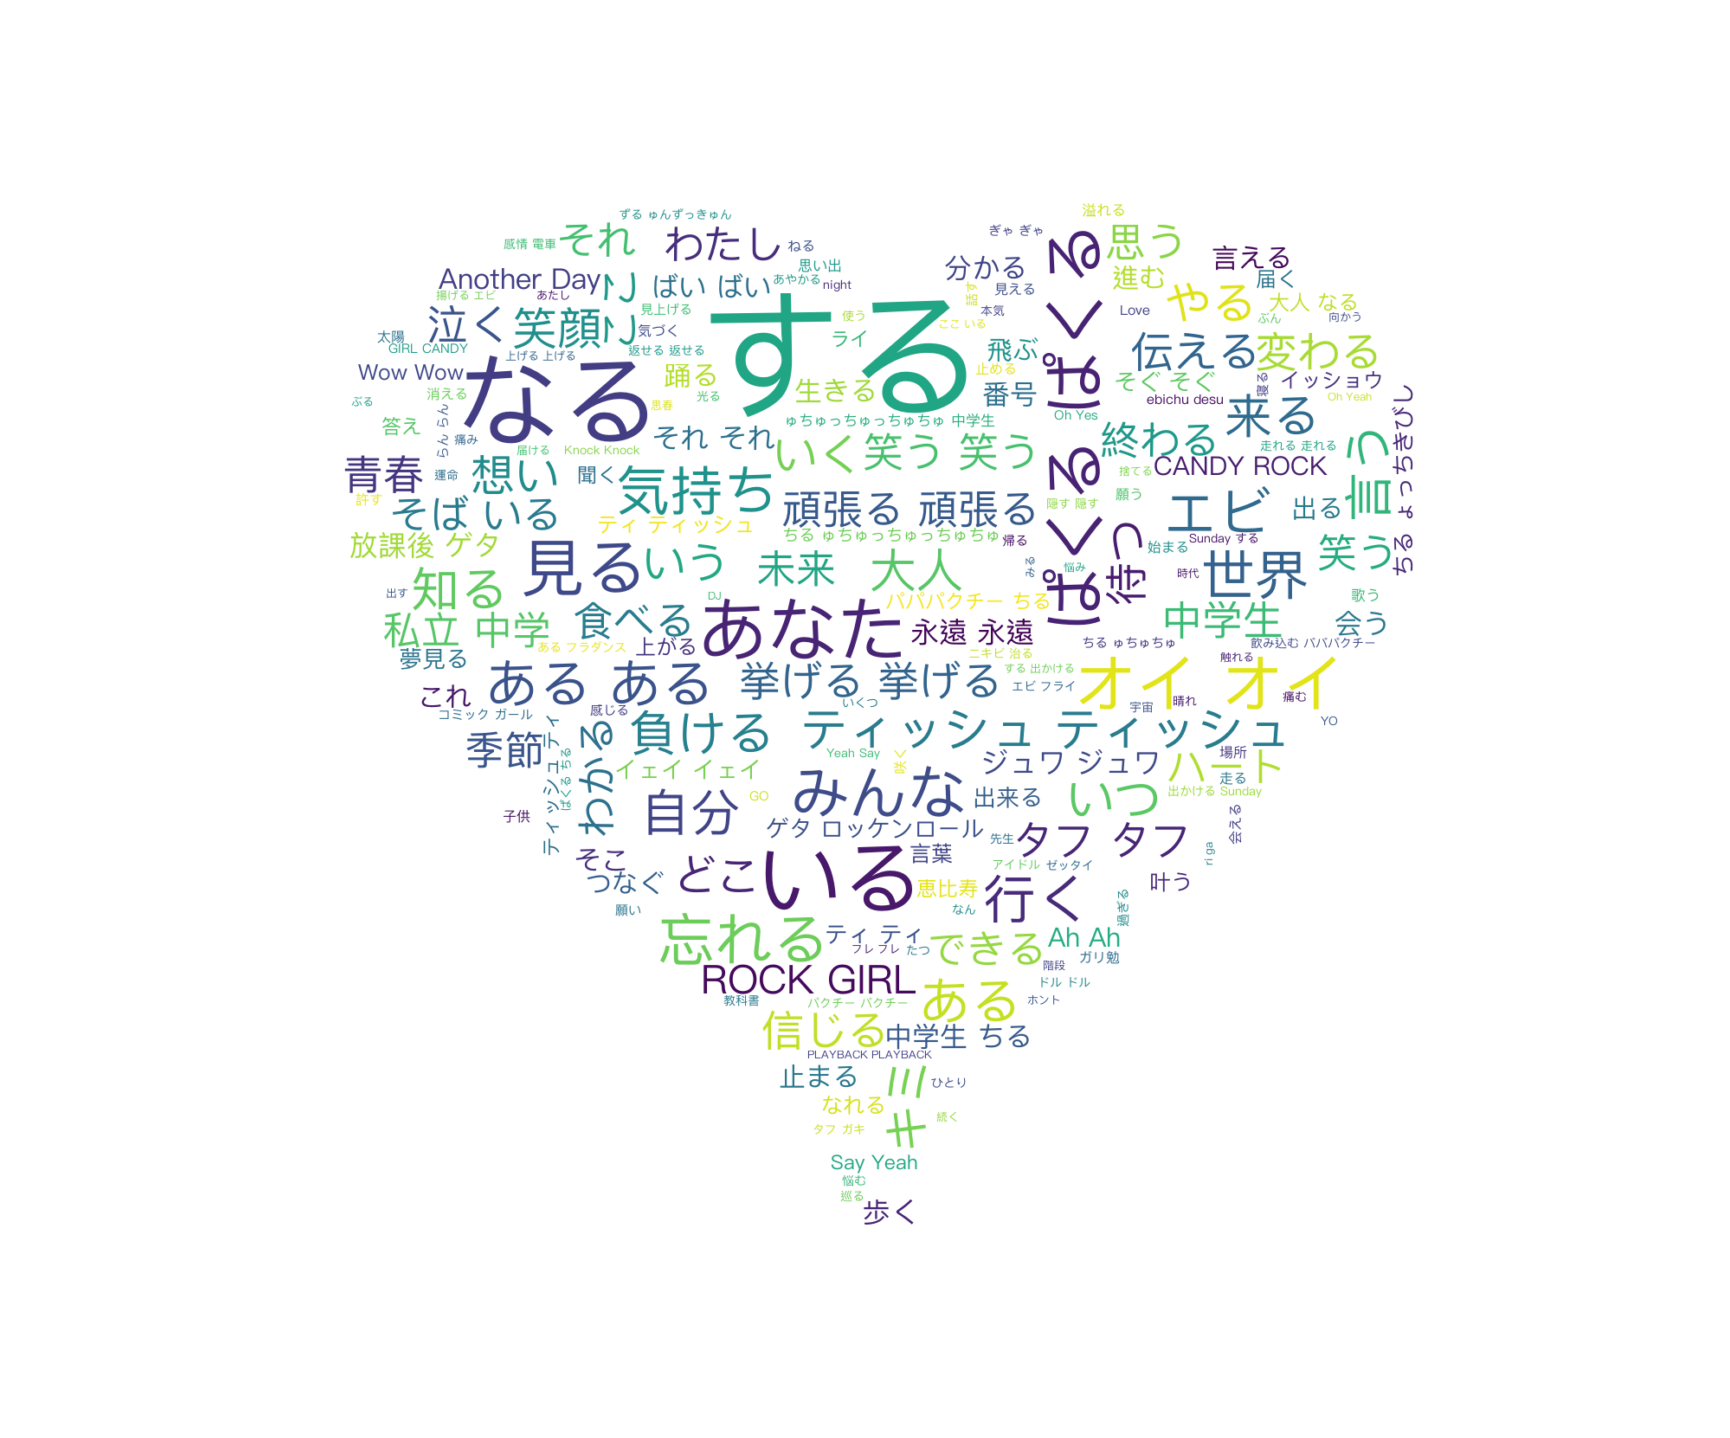
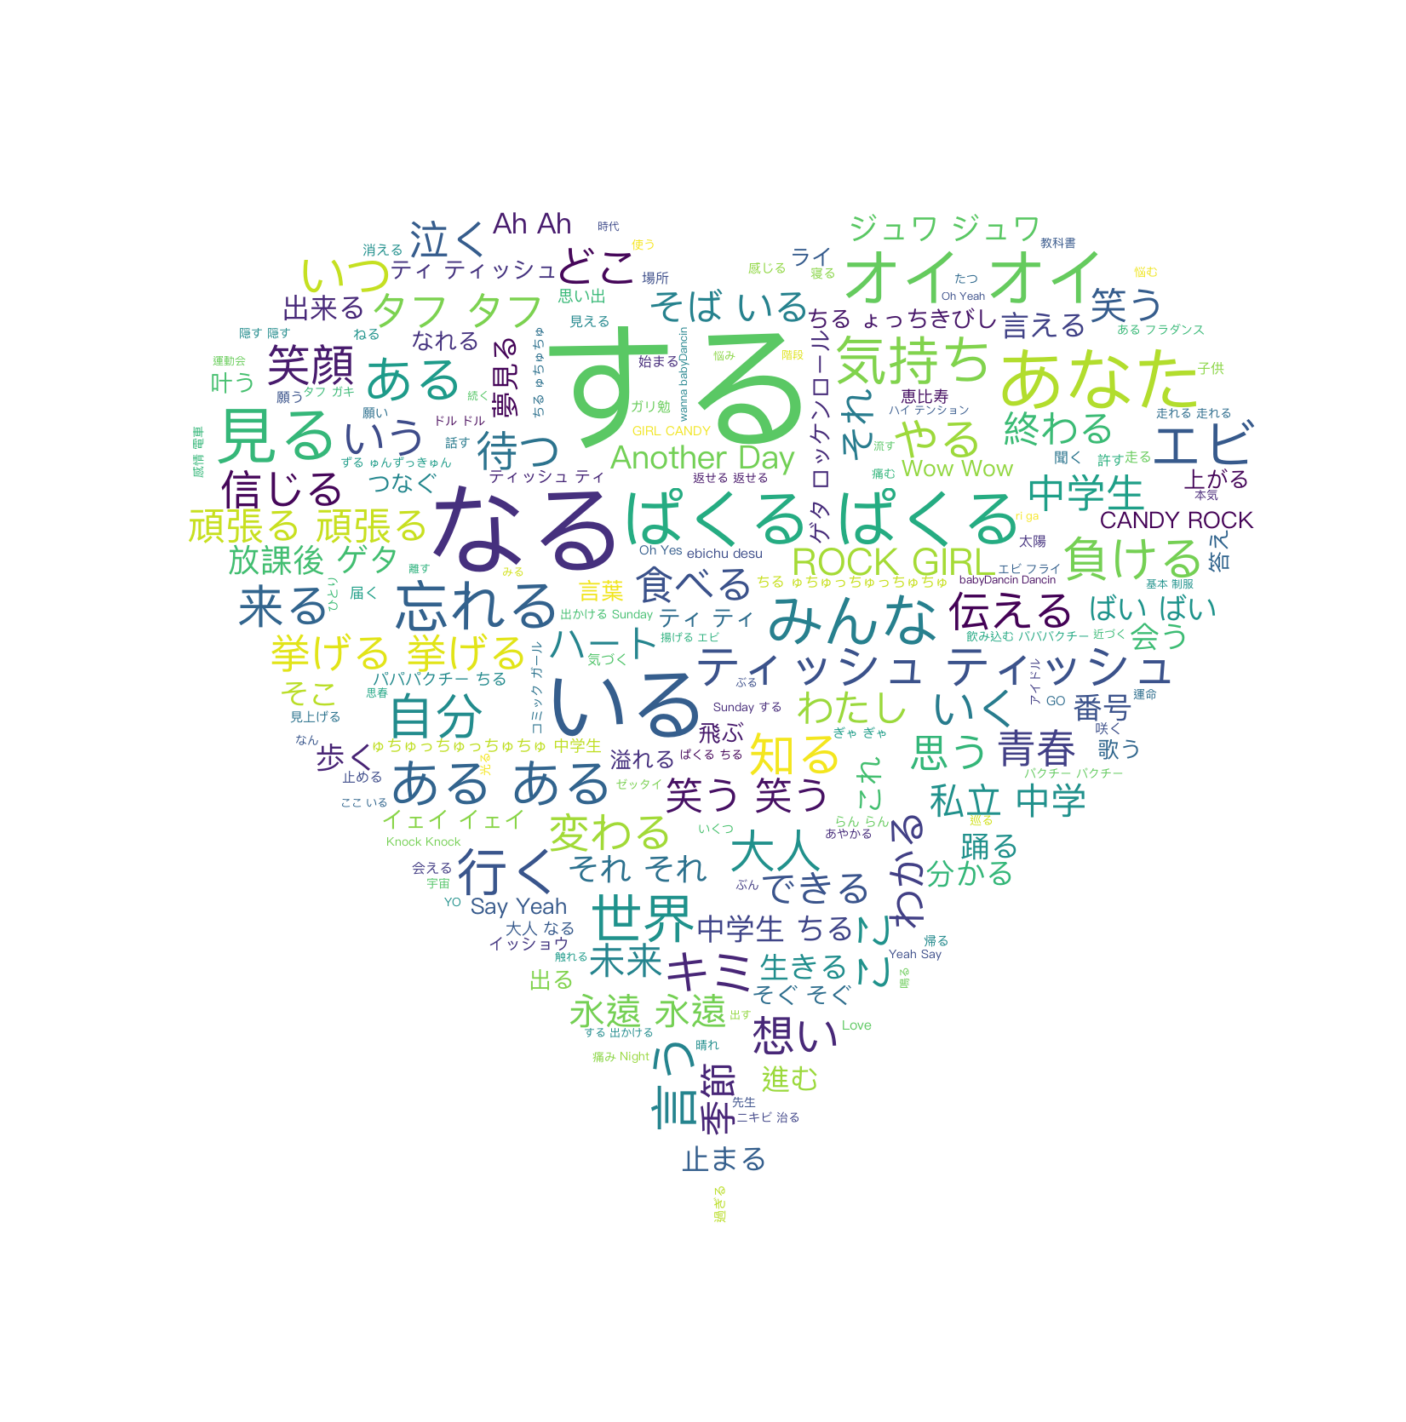
some polish

Changed region(s): [[0.1223, 0.1238, 0.8869, 0.8664]]

diff --git a/morphological-analysis.py b/morphological-analysis.py
@@ -23,6 +23,7 @@ class SentenceSplit:
             for criteria in criterias:
                 if feature.startswith(criteria):
                     target_words.append(surface)
+                    break
         return ' '.join(target_words)
 
     def get_words_feed(self, words_cloud_txt, criterias):
@@ -34,7 +35,7 @@ class SentenceSplit:
 
 
 if __name__ == "__main__":
-    # TODO: Exam different extraction criteria.
+    # TODO: Try different extraction criteria.
     criterias = ["名詞-一般", "動詞-自立", "名詞-代名詞-一般"]
     analysis = SentenceSplit("jpop-lyrics.db")
     analysis.get_words_feed("word-cloud-feed.txt", criterias)

diff --git a/get-lyrics.py b/get-lyrics.py
@@ -53,6 +53,6 @@ class JpopLyrics:
 
 
 if __name__ == "__main__":
-    # TODO: Extend the database.
+    # TODO: Expand the database.
     jpop_lyrics_database = JpopLyrics("jpop-lyrics.db")
     jpop_lyrics_database.parse_lyrics()

diff --git a/README.md b/README.md
@@ -18,8 +18,8 @@
 
 ## TODO
 
-- Extend the database.
-- Exam different extraction criteria.
+- Expand the database.
+- Try different extraction criteria.
 
 ## Acknowledgments
 
